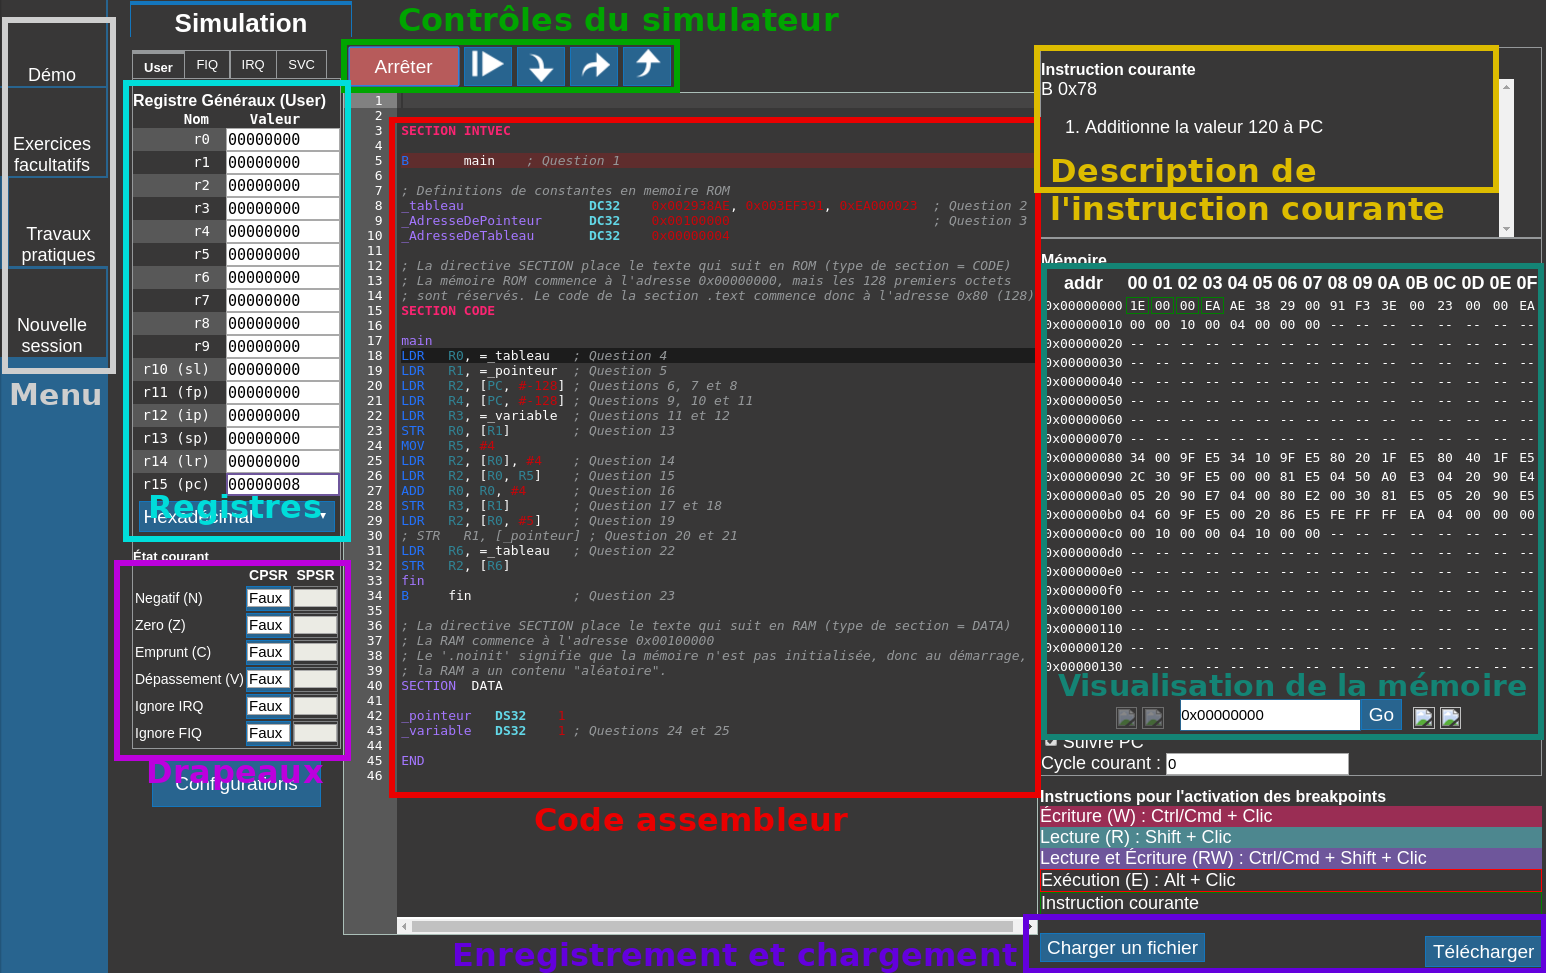
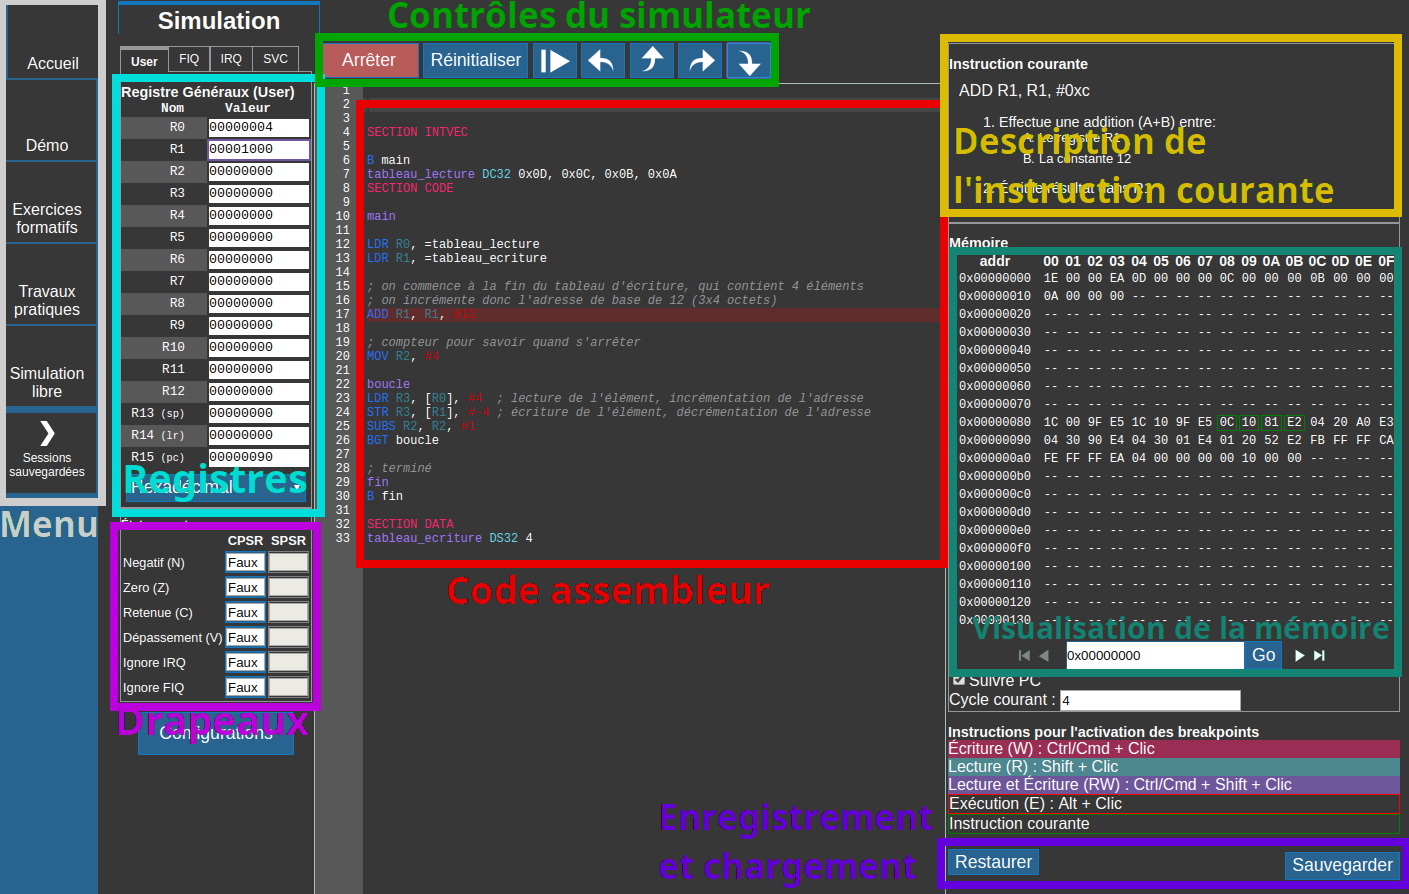
Update documentation with the new interface and new features

diff --git a/doc/fr/manuel.tex b/doc/fr/manuel.tex
@@ -62,11 +62,11 @@ D'autres navigateurs peuvent également être compatibles avec l'interface du si
 
 \subsection{Enregistrement et chargement}
 
-\paragraph{\textbf{\color{red}{Note importante :}}} \textbf{\color{red}{Le serveur ne réalise \emph{aucune} sauvegarde de votre code ou de vos données. Il est de \emph{votre} responsabilité de télécharger le fichier contenant votre code à chaque fois que vous quittez la session de simulation ou fermez votre navigateur.}}
+\paragraph{\textbf{\color{red}{Note importante :}}} \textbf{\color{red}{Le serveur sauvegarde automatiquement votre code, mais il n'y a aucune garantie que celui-ci sera conservé après avoir quitté la session de simulation. Il est de \emph{votre} responsabilité de télécharger le fichier contenant votre code à chaque fois que vous quittez la session de simulation ou fermez votre navigateur.}}
 
 \section{Utilisation du simulateur}
 
-La page d'accueil du simulateur est présentée à la figure \ref{f:accueil}. Elle contient, sur la gauche, un menu permettant de choisir le type d'activité (démonstrations, exercices, travaux pratiques ou codage libre) et, dans sa section principale, une liste des programmes disponibles.
+La page d'accueil du simulateur est présentée à la figure \ref{f:accueil}. Elle contient, sur la gauche, un menu permettant de choisir le type d'activité (démonstrations, exercices, travaux pratiques ou simulation libre) et, dans sa section principale, une liste des programmes disponibles.
 
 \begin{figure}
 \raggedleft
@@ -112,15 +112,16 @@ Passer la souris sur ce X fait apparaître une infobulle contenant un texte expl
 \caption{Le message expliquant l'erreur peut être consulté en passant la souris sur le X.}
 \end{figure}
 
-Une fois le programme \emph{assemblé} (le bouton ``Démarrer'' pressé et le code assemblé sans erreur), il est possible de mettre en place des points d'arrêt (\textit{breakpoints}) en cliquant sur le numéro d'une ligne. Un point d'arrêt force le simulateur à s'arrêter lorsqu'il l'atteint. Un point d'arrêt peut être désactivé en recliquant sur le même numéro de ligne. Par exemple, dans la figure suivante, les lignes 20 et 22 sont des points d'arrêt :
+
+Il est possible de mettre en place des points d'arrêt (\textit{breakpoints}) en cliquant sur le numéro d'une ligne. Un point d'arrêt force le simulateur à s'arrêter lorsqu'il l'atteint. Un point d'arrêt peut être désactivé en recliquant sur le même numéro de ligne. Par exemple, dans la figure suivante, les lignes 20 et 22 sont des points d'arrêt :
 \begin{figure}[h!]
 \raggedleft
 \includegraphics[width=0.9\linewidth]{pics/editeur_bkpt.png}
 \label{f:editeurbkpt}
-\caption{Un point d'arrêt (\textit{breakpoint}) peut être mis en place en cliquant sur le numéro de ligne, une fois le programme assemblé.}
+\caption{Un point d'arrêt (\textit{breakpoint}) peut être mis en place en cliquant sur le numéro de ligne.}
 \end{figure}
 
-\paragraph{\textbf{Note importante :}}un point d'arrêt ne peut être placé que sur une ligne \emph{contenant une instruction}. Si l'utilisateur clique sur une ligne ne contenant pas d'instructions, le point d'arrêt sera placé sur la prochaine ligne contenant une instruction. Par exemple, à la figure \ref{f:editeurbkpt}, cliquer sur la ligne 17 placera un point d'arrêt à la ligne \emph{18}.
+\paragraph{\textbf{Note importante :}}un point d'arrêt peut être placé sur n'importe qu'elle ligne si le programme n'est \emph{pas assemblé}. Une fois le programme \emph{assemblé} (le bouton ``Démarrer'' pressé et le code assemblé sans erreur), les points d'arrêt peuvent seulement être placé sur une ligne \emph{contenant une instruction} et les points d'arrêts invalides sont désactivés ou déplacé sur la prochaine ligne. Si l'utilisateur clique sur une ligne ne contenant pas d'instruction, le point d'arrêt sera placé sur la prochaine ligne contenant une instruction. Par exemple, à la figure \ref{f:editeurbkpt}, cliquer sur la ligne 17 placera un point d'arrêt à la ligne \emph{18}.
 
 Lors de l'exécution, l'éditeur passe en mode lecture seule. Il affiche cependant certaines informations. La ligne en cours d'exécution est surlignée en rouge bourgogne :
 \begin{figure}[h!]
@@ -162,9 +163,10 @@ Lorsque le bouton \textit{Démarrer} est pressé, le simulateur tente d'abord d'
 	\item \textbf{Arrêt} : interrompt la simulation et revient en mode édition.
 	\item \textbf{Réinitialisation} : effectue l'équivalent d'une interruption \emph{reset} sur le microprocesseur. La valeur de PC est mise à $0$. Notez que cela n'affecte \emph{pas} la valeur des autres registres et des drapeaux.
 	\item \textbf{Exécution en continu} : le simulateur exécute les instructions suivantes sans arrêt, jusqu'à ce qu'il rencontre une erreur ou un point d'arrêt. Notez que le simulateur est volontairement limité quant au nombre d'instructions qu'il peut exécuter d'un seul coup. Lorsque ce nombre est atteint, le simulateur arrête comme s'il avait rencontré un point d'arrêt. Il suffit d'appuyer à nouveau sur le bouton d'exécution en continu pour poursuivre.
-	\item \textbf{Exécuter instruction courante} : exécute l'instruction courante (celle qui est surlignée dans l'éditeur) et passe à la suivante puis arrête.
-	\item \textbf{Exécuter ligne courante} : dans le cas où la ligne courante est une instruction autre que BL, cette action a le même effet que la précédente. Toutefois, dans le cas d'un appel de fonction (BL), cette action exécute l'entièreté de la fonction jusqu'à son retour.
+    \item \textbf{Retour en arrière} : retourne en arrière d'une instruction. L'état du simulateur (les registres, la mémoire et les drapeaux) retourne comme elle était à l'instruction précédente puis arrête.
 	\item \textbf{Exécuter jusqu'à la sortie} : dans le cas où la ligne courante est dans une fonction, cette action exécute sans arrêt les instructions jusqu'à sortir de la fonction (appel de BX). Si la ligne courante n'est pas dans une fonction, cette action a le même effet qu'une exécution en continu.
+	\item \textbf{Exécuter ligne courante} : dans le cas où la ligne courante est une instruction autre que BL, cette action a le même effet que la précédente. Toutefois, dans le cas d'un appel de fonction (BL), cette action exécute l'entièreté de la fonction jusqu'à son retour.
+	\item \textbf{Exécuter instruction courante} : exécute l'instruction courante (celle qui est surlignée dans l'éditeur) et passe à la suivante puis arrête.
 \end{enumerate}
 
 \clearpage
@@ -317,6 +319,46 @@ Les lignes suivantes sont une description textuelle de l'instruction, générée
 
 
 \clearpage
+\subsection{Sauvegarde des sessions de travail}
+
+Les sessions sauvegardées permettent d'alterner entre plusieurs versions de code d'une même simulation. La session courante est sauvegardée automatiquement et restaurée au retour à la même simulation. 
+
+\begin{figure}[h!]
+\raggedleft
+\includegraphics[width=0.2\linewidth]{pics/session_button.png}
+\label{f:session_button}
+\caption{Boutton du menu latéral}
+\end{figure}
+
+Pour afficher le panneau des sessions sauvegardées, il faut survoler le bouton ``Sessions sauvegardées'' du menu latéral. 
+
+\begin{figure}[h!]
+\raggedleft
+\includegraphics[width=0.4\linewidth]{pics/session_control.png}
+\label{f:session_control}
+\caption{Contrôle des sessions sauvegardées}
+\end{figure}
+
+Trois bouton sont accessible pour modifier les sessions : 
+\begin{enumerate}     
+\item \textbf{Effacer} : la session courante est supprimée et la suivante est sélectionnée (son code est restauré).
+\item \textbf{Effacer tout} : toutes les sessions sont supprimées puis le code par défaut est restauré.
+\item \textbf{Nouvelle session} : la session courante est sauvegardée et une nouvelle session est ajouté en tête de la liste. Le code par défaut est restauré. 
+\end{enumerate}
+
+\begin{marginfigure}
+\includegraphics[width=\linewidth]{pics/session_open.png}
+\label{f:session_open}
+\caption{Vue des sessions sauvegardées avec la session numéro 2 de sélectionnée}
+\end{marginfigure}
+
+De plus, cliquer sur une session sauvegarde la session courante et restaure la session sélectionnée. La session en cours est affichée en bleu pour la différencier.
+
+Certaines informations sont affichées pour distinguer les différentes sessions. On y retrouve, le numéro de la session, l'heure de la dernière sauvegarde, la taille du code (en nombre de caractères) et le nom personnalité de la session. Un double-clic sur le nom permet de le modifier.
+
+\paragraph{\textbf{Note importante :}} malgré que ce procédé permet de sauvegardé son code même après la fermeture de votre navigateur, \textbf{il est fortement recommandé d'enregistrer (télécharger) votre code}. Les sauvegardes de sessions sont enregistrées dans la mémoire de votre navigateur et il n'y a aucune garantie que celle-ci ne sera pas effacée.   
+
+\clearpage
 \subsection{Contrôles d'enregistrement et de chargement}
 
 Ces contrôles, situés au bas de l'écran, vous permettent de télécharger le code présent dans l'éditeur et de charger un code présent sur votre ordinateur. Ces deux actions sont analogues à l'ouverture et l'enregistrement dans une application traditionnelle.
@@ -330,7 +372,7 @@ Ces contrôles, situés au bas de l'écran, vous permettent de télécharger le 
 
 N'importe quel type de fichier texte brut peut être lu par le simulateur. Nous vous recommandons toutefois d'utiliser l'extension ``txt'' afin d'éviter la confusion avec d'autres formats de fichier. C'est d'ailleurs cette extension que comportent les fichiers téléchargés depuis le simulateur.
 
-\paragraph{\textbf{Note importante :}} ces contrôles constituent la \emph{seule} manière de sauvegarder et réouvrir votre code. Il n'y a \emph{aucun} système de sauvegarde automatique et le serveur ne conserve \emph{aucune} trace du code exécuté. \textbf{Si vous ne téléchargez pas votre code avant de fermer votre navigateur ou de changer de page, les modifications que vous y avez apportées seront perdues et irrécupérables.} Un message d'avertissement vous est présenté lorsque vous tentez de fermer la fenêtre afin de vous rappelez de télécharger le fichier.
+\paragraph{\textbf{Note importante :}} malgré que votre code est sauvegardé automatiquement dans votre navigateur, \textbf{il est fortement recommandé de sauvegarder votre code} avec ces contrôles.
 
 \clearpage
 \subsection{Configuration}
